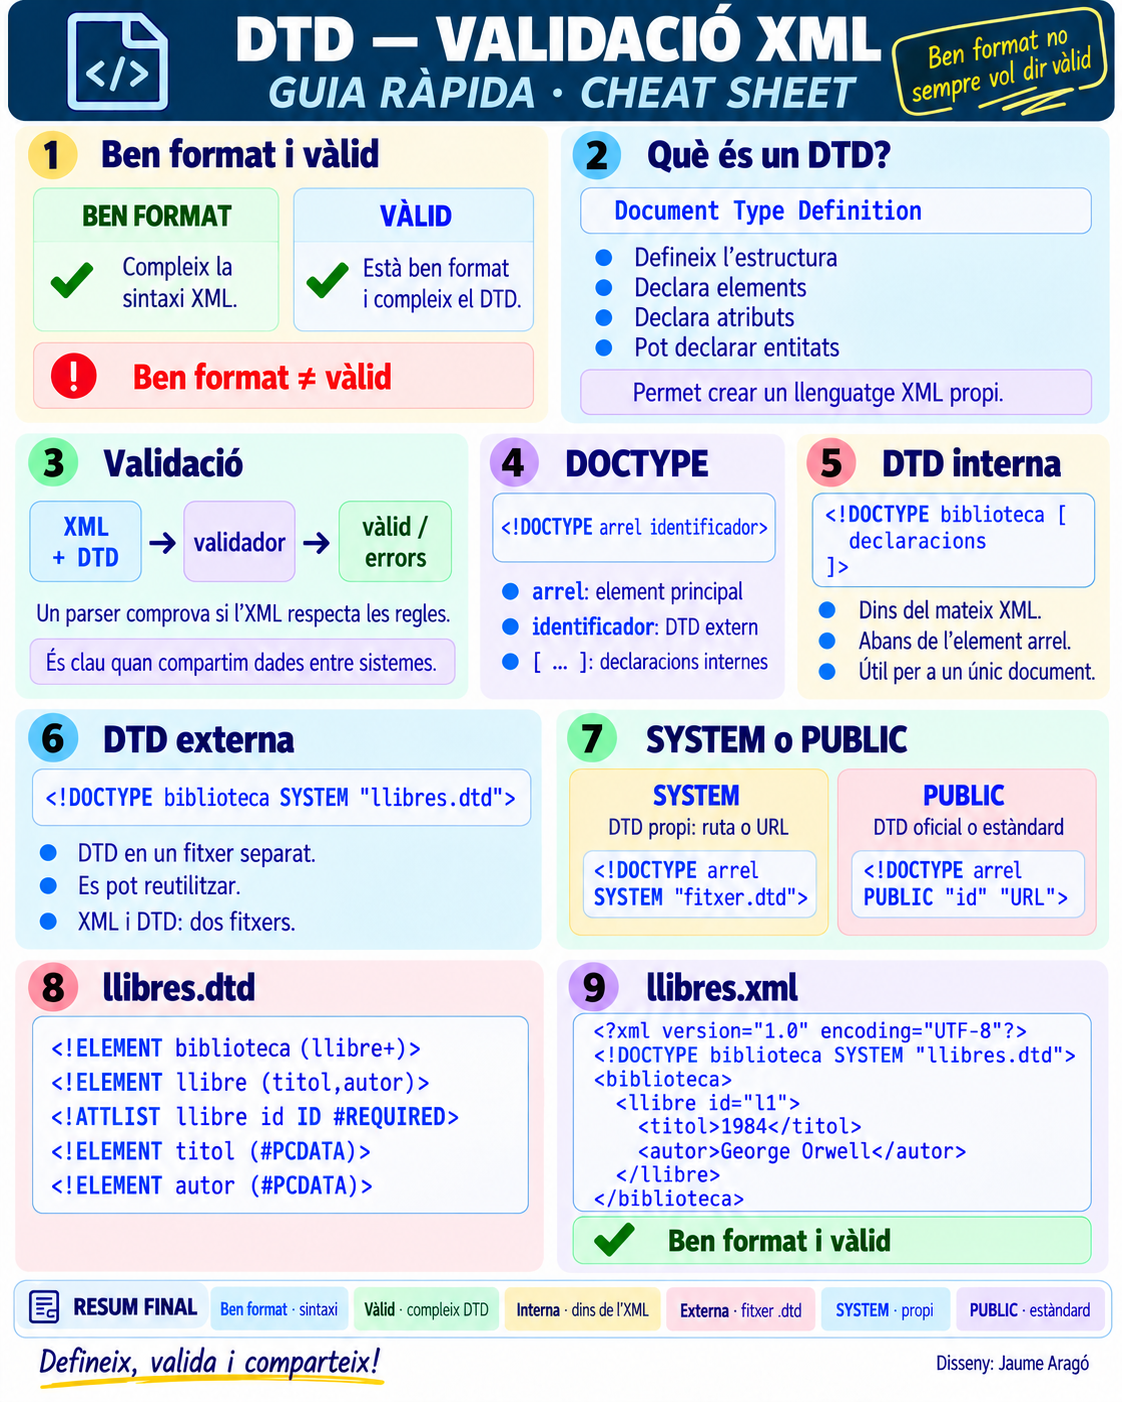
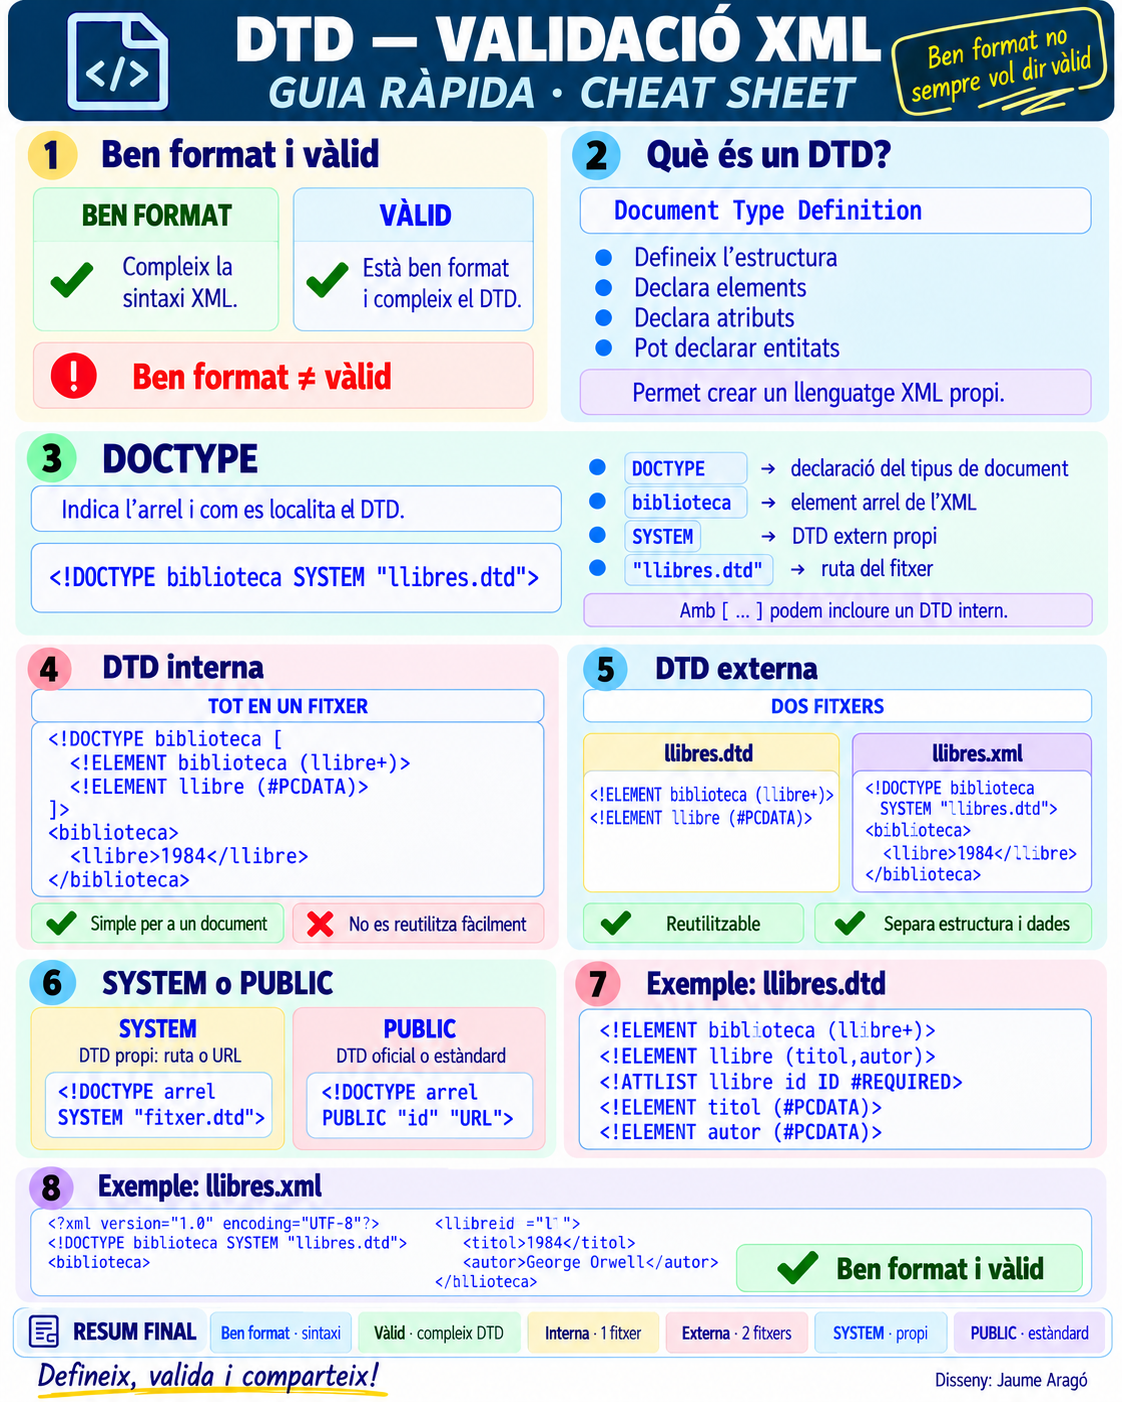
Update title in RESUM.md for clarity

diff --git a/1 XML-DTD/1.2.3.4.RESUM.md b/1 XML-DTD/1.2.3.4.RESUM.md
@@ -1,5 +1,5 @@
 ---
-title: 1.2.3.4.- En resum...
+title: En resum...
 parent: 1.1.- DTD - Document Type Definition
 grand_parent: 1.- XML i DTD
 layout: default
